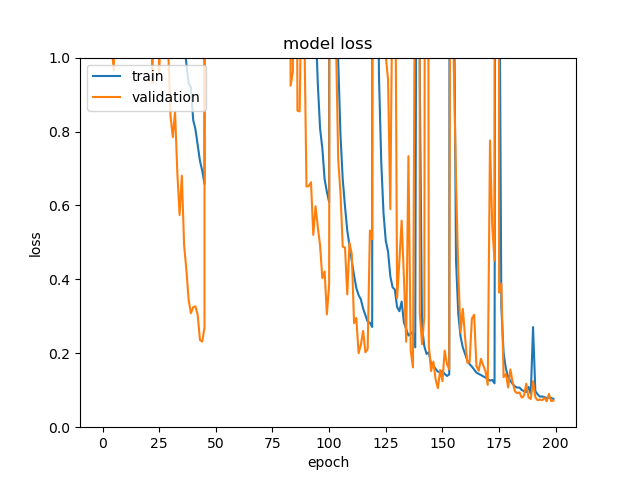
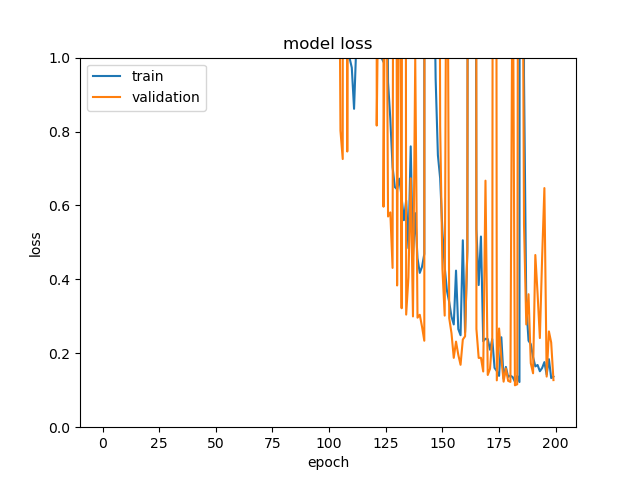
Add lambda regularization to all layers!

Changed region(s): [[0.4375, 0.125, 0.875, 0.8438], [0.2188, 0.125, 0.3438, 0.7188]]

diff --git a/convTilesetMaker.py b/convTilesetMaker.py
@@ -16,7 +16,7 @@ import random
 randomGen = np.random.default_rng()
 
 p = {
-    'lambda': [0.0001, 0.00001, 0.000005, 0.000001],
+    'lambda': [0.00001, 0.000005, 0.000001],
 }
 
 # Import images
@@ -86,31 +86,36 @@ def my_model(x_train, y_train, x_val, y_val, params):
     filter_size = 256
 
     # A: 256 -> 128
-    A = Conv2D(filter_size, (3, 3), strides=2, padding='same')(input_img)
+    A = Conv2D(filter_size, (3, 3), strides=2, padding='same',
+        activity_regularizer=l2(params['lambda']))(input_img)
     A = LeakyReLU(alpha=0.2)(A)
     A = BatchNormalization(momentum=0.8)(A)
     A = Dropout(0.2)(A)
 
     # B: 128 -> 64
-    B = Conv2D(filter_size*2, (3, 3), strides=2, padding='same')(A)
+    B = Conv2D(filter_size*2, (3, 3), strides=2, padding='same',
+        activity_regularizer=l2(params['lambda']))(A)
     B = LeakyReLU(alpha=0.2)(B)
     B = BatchNormalization(momentum=0.8)(B)
     B = Dropout(0.2)(B)
 
     # C: 64 -> 32
-    C = Conv2D(filter_size*2, (3, 3), strides=2, padding='same')(B)
+    C = Conv2D(filter_size*2, (3, 3), strides=2, padding='same',
+        activity_regularizer=l2(params['lambda']))(B)
     C = LeakyReLU(alpha=0.2)(C)
     C = BatchNormalization(momentum=0.8)(C)
     #C = Dropout(0.2)(C) #
 
     # D: 32 -> 16
-    D = Conv2D(filter_size*4, (3, 3), strides=2, padding='same')(C)
+    D = Conv2D(filter_size*4, (3, 3), strides=2, padding='same',
+        activity_regularizer=l2(params['lambda']))(C)
     D = LeakyReLU(alpha=0.2)(D)
     D = BatchNormalization(momentum=0.8)(D)
     D = Dropout(0.2)(D)
 
     # E: 16 -> 8
-    E = Conv2D(filter_size*4, (3, 3), strides=2, padding='same')(D)
+    E = Conv2D(filter_size*4, (3, 3), strides=2, padding='same',
+        activity_regularizer=l2(params['lambda']))(D)
     E = LeakyReLU(alpha=0.2)(E)
     E = BatchNormalization(momentum=0.8)(E)
     E = Dropout(0.2)(E) #
@@ -147,14 +152,16 @@ def my_model(x_train, y_train, x_val, y_val, params):
 
     # E: 8 -> 16
     upE = concatenate([upF, E])
-    upE = Conv2DTranspose(filter_size*2, (3, 3), strides=2, padding='same')(upE)
+    upE = Conv2DTranspose(filter_size*2, (3, 3), strides=2, padding='same',
+        activity_regularizer=l2(params['lambda']))(upE)
     upE = BatchNormalization(momentum=0.8)(upE)
     upE = Activation('relu')(upE)
     #upE = Dropout(0.2)(upE) #
 
     # C: 16 -> 48
     upD = concatenate([upE, D])
-    upD = Conv2DTranspose(3, (3, 3), strides=3, padding='same')(upD)
+    upD = Conv2DTranspose(3, (3, 3), strides=3, padding='same',
+        activity_regularizer=l2(params['lambda']))(upD)
     upD = Activation('sigmoid')(upD)
 
     model = Model(input_img, upD)
@@ -170,7 +177,7 @@ def my_model(x_train, y_train, x_val, y_val, params):
                     epochs=200,
                     verbose = 1)#, callbacks=[es])
 
-    model.save('tilesetmaker-' + "noDropout" + str(params['lambda']) + '.h5')
+    model.save('tilesetmaker-' + "after" + str(params['lambda']) + '.h5')
 
     #  "Loss"
     plt.plot(out.history['loss'])
@@ -198,11 +205,12 @@ talos.Scan(x_train, y_train, p, my_model, x_val=x_validation, y_val=y_validation
 #my_model(x_train, y_train, x_validation, y_validation, p)
 
 # Improvements: Test against L2 layer for if following techniques improve val-loss
-# Removed dropout in late layers vs no dropout
-# activity regularizers to ALL layers
+# decrease filter size to improve memory usage
+# decrease lambda further than 1e-06
 # ReduceLROnPlateau when val_loss plateaus to go from macro learning to fine-tuning what validation error plateaus
 # Use Teros on adam beta1 and beta2
 # have a new file of metrics that holds graphs for different filter_sizes and check which has most attuned loss/val-loss
 # adding another layer of conv2D and conv2DTranspose? if that doesn't work, removing?
+# Taking out lambda regularization from decoding? How about decoding?
 # GAN?
 # Moar data

diff --git a/convTilesetUser.py b/convTilesetUser.py
@@ -12,13 +12,13 @@ import matplotlib.pyplot as plt
 import random
 
 #model = load_model('tilesetmaker-L20.0005.h5')
-model2 = load_model('tilesetmaker-L20.0001.h5')
-model3 = load_model('tilesetmaker-L21e-05.h5')
-model4 = load_model('tilesetmaker-L21e-06.h5')
+#model2 = load_model('tilesetmaker-before0.0001.h5')
+model3 = load_model('tilesetmaker-before1e-05.h5')
+model4 = load_model('tilesetmaker-before1e-06.h5')
 model5 = load_model('tilesetmaker-noDropout0.0001.h5')
 model6 = load_model('tilesetmaker-noDropout1e-05.h5')
 model7 = load_model('tilesetmaker-noDropout5e-06.h5')
-model8 = load_model('tilesetmaker-noDropout1e-06.h5')
+#model8 = load_model('tilesetmaker-noDropout1e-06.h5')
 
 def testImage(filenames):
     _, axs = plt.subplots(len(filenames), 9)
@@ -28,22 +28,22 @@ def testImage(filenames):
         data = np.asarray(image)
         data = data/255
         #output = model.predict(np.expand_dims(data, axis=0))
-        output2 = model2.predict(np.expand_dims(data, axis=0))
+        #output2 = model2.predict(np.expand_dims(data, axis=0))
         output3 = model3.predict(np.expand_dims(data, axis=0))
         output4 = model4.predict(np.expand_dims(data, axis=0))
         output5 = model5.predict(np.expand_dims(data, axis=0))
         output6 = model6.predict(np.expand_dims(data, axis=0))
         output7 = model7.predict(np.expand_dims(data, axis=0))
-        output8 = model8.predict(np.expand_dims(data, axis=0))
+        #output8 = model8.predict(np.expand_dims(data, axis=0))
         axs[i, 0].imshow(data)
         #axs[i, 1].imshow(output[0])
-        axs[i, 2].imshow(output2[0])
+        #axs[i, 2].imshow(output2[0])
         axs[i, 3].imshow(output3[0])
         axs[i, 4].imshow(output4[0])
         axs[i, 5].imshow(output5[0])
         axs[i, 6].imshow(output6[0])
         axs[i, 7].imshow(output7[0])
-        axs[i, 8].imshow(output8[0])
+        #axs[i, 8].imshow(output8[0])
     plt.show()
 
 testImage(['pictures/wood.png', 'pictures/moonA.jpg', 'tilesets/mario1/x.png'])

diff --git a/convTilesetTester.py b/convTilesetTester.py
@@ -30,14 +30,14 @@ def loadData(path):
     return x,y
 
 (x_train, y_train) = loadData("tilesets")
-#model1 = load_model('tilesetmaker-L20.0005.h5')
-model2 = load_model('tilesetmaker-L20.0001.h5')
-model3 = load_model('tilesetmaker-L21e-05.h5')
-model4 = load_model('tilesetmaker-L21e-06.h5')
+#model1 = load_model('tilesetmaker-before0.0005.h5')
+model2 = load_model('tilesetmaker-before0.0001.h5')
+model3 = load_model('tilesetmaker-before1e-05.h5')
+model4 = load_model('tilesetmaker-before1e-06.h5')
 
 model5 = load_model('tilesetmaker-noDropout0.0001.h5')
 model6 = load_model('tilesetmaker-noDropout1e-05.h5')
-model7 = load_model('tilesetmaker-noDropout5e-06.h5')
+#model7 = load_model('tilesetmaker-noDropout5e-06.h5')
 model8 = load_model('tilesetmaker-noDropout1e-06.h5')
 
 for i in range(10):
@@ -56,10 +56,10 @@ for i in range(10):
     axs[1, 3].imshow(img_rgb4[0])#, cmap='gray')
     img_rgb1 = model5.predict(img_rgb)
     img_rgb2 = model6.predict(img_rgb)
-    img_rgb3 = model7.predict(img_rgb)
+    #img_rgb3 = model7.predict(img_rgb)
     img_rgb4 = model8.predict(img_rgb)
     axs[2, 0].imshow(img_rgb1[0])#, cmap='gray')
     axs[2, 1].imshow(img_rgb2[0])#, cmap='gray')
-    axs[2, 2].imshow(img_rgb3[0])#, cmap='gray')
+    #axs[2, 2].imshow(img_rgb3[0])#, cmap='gray')
     axs[2, 3].imshow(img_rgb4[0])#, cmap='gray')
     plt.show()
